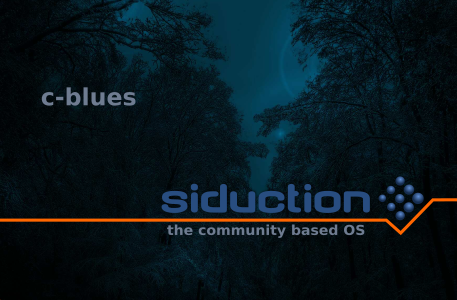
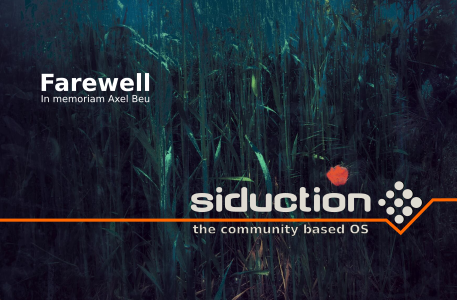
finalizing branding - adding new wallpaper to slide - adjusting release name

diff --git a/calamares/branding/siduction/show.qml b/calamares/branding/siduction/show.qml
@@ -33,7 +33,7 @@ Presentation
     Text {
         anchors.horizontalCenter: image1.horizontalCenter
         anchors.top: image1.bottom
-        text: "<b>Welcome to siduction 2021.1.1 \"C-Blues\".</b><br/>"+
+        text: "<b>Welcome to siduction 2021.2.0 \"Farewell\".</b><br/>"+
               "The rest of the installation is automated and typically takes a few minutes to complete. <br/><br/>"+
               "WARNING: After the installation finishes, your system will not be DFSG-compliant (Debian Free Software Guide).<br/>"+
               "We ship non-free firmware that enables you to set up wifi and other hardware with non-free needs.<br/>"+

diff --git a/calamares/release-notes.htm b/calamares/release-notes.htm
@@ -33,10 +33,10 @@
                 font-weight: bold;
                 }
         </style>
-    <title>Release Notes for Axel 2021.2.0</title>
+    <title>Release Notes for Farewell 2021.2.0</title>
   </head>
   <body>
-    <header><h2>Release Notes Axel 2021.2.0</h2></header>
+    <header><h2>Release Notes Farewell 2021.2.0</h2></header>
         <main>
         
         <h3>In memoriam Axel Beu</h3>
